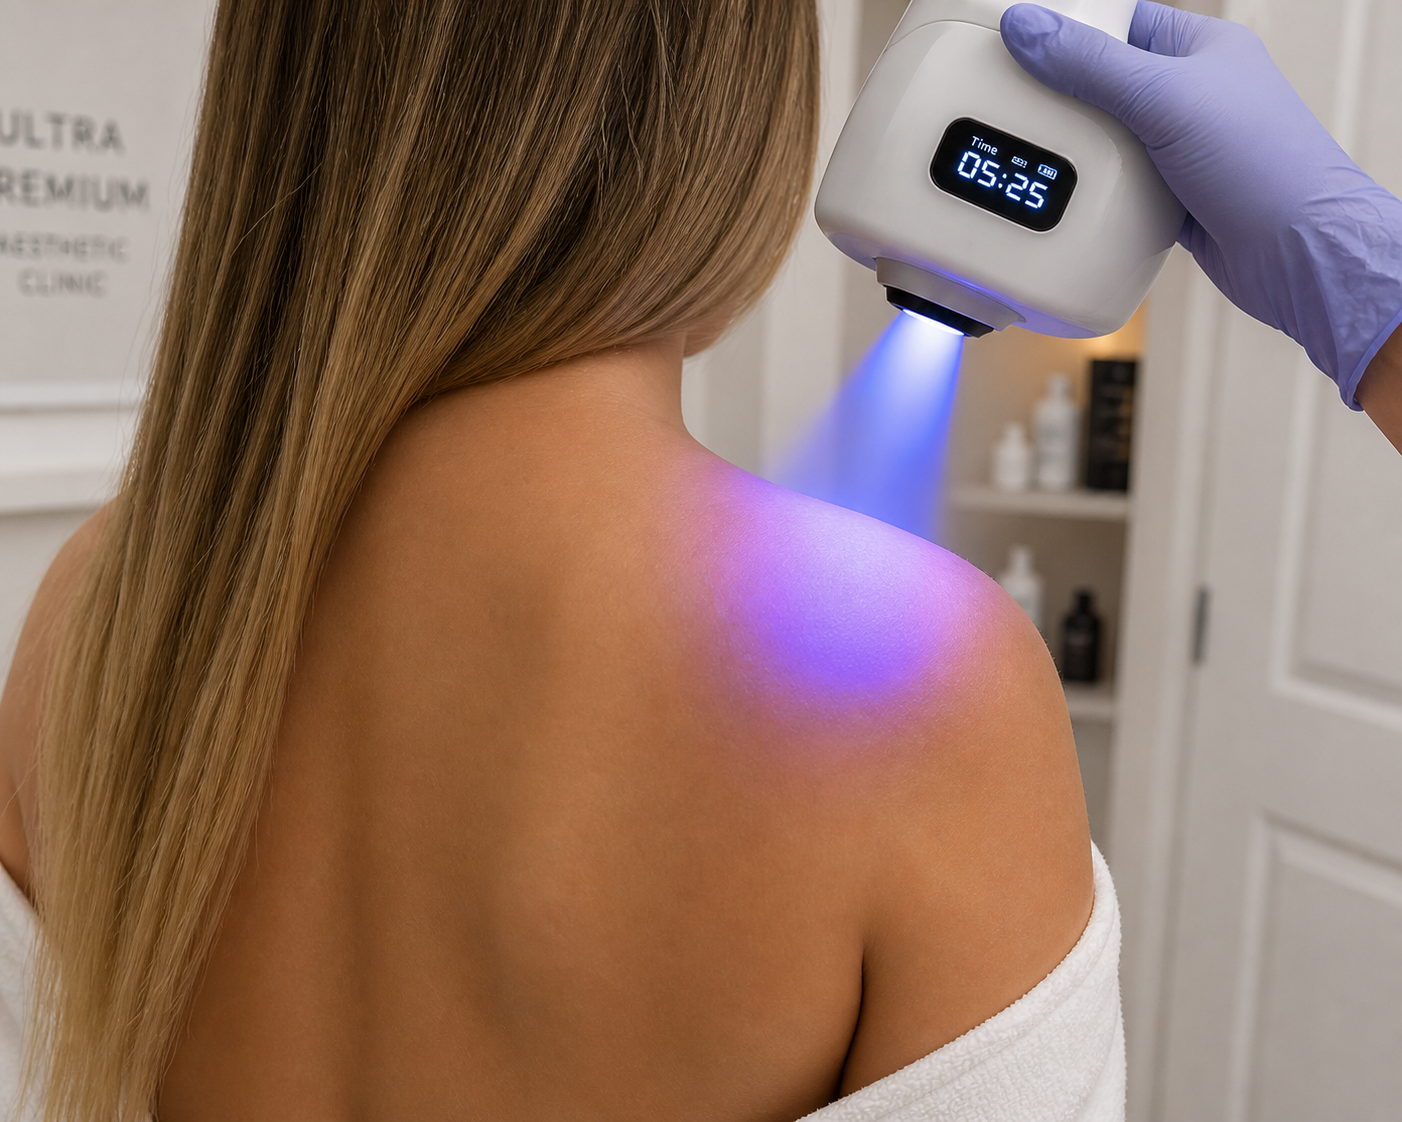
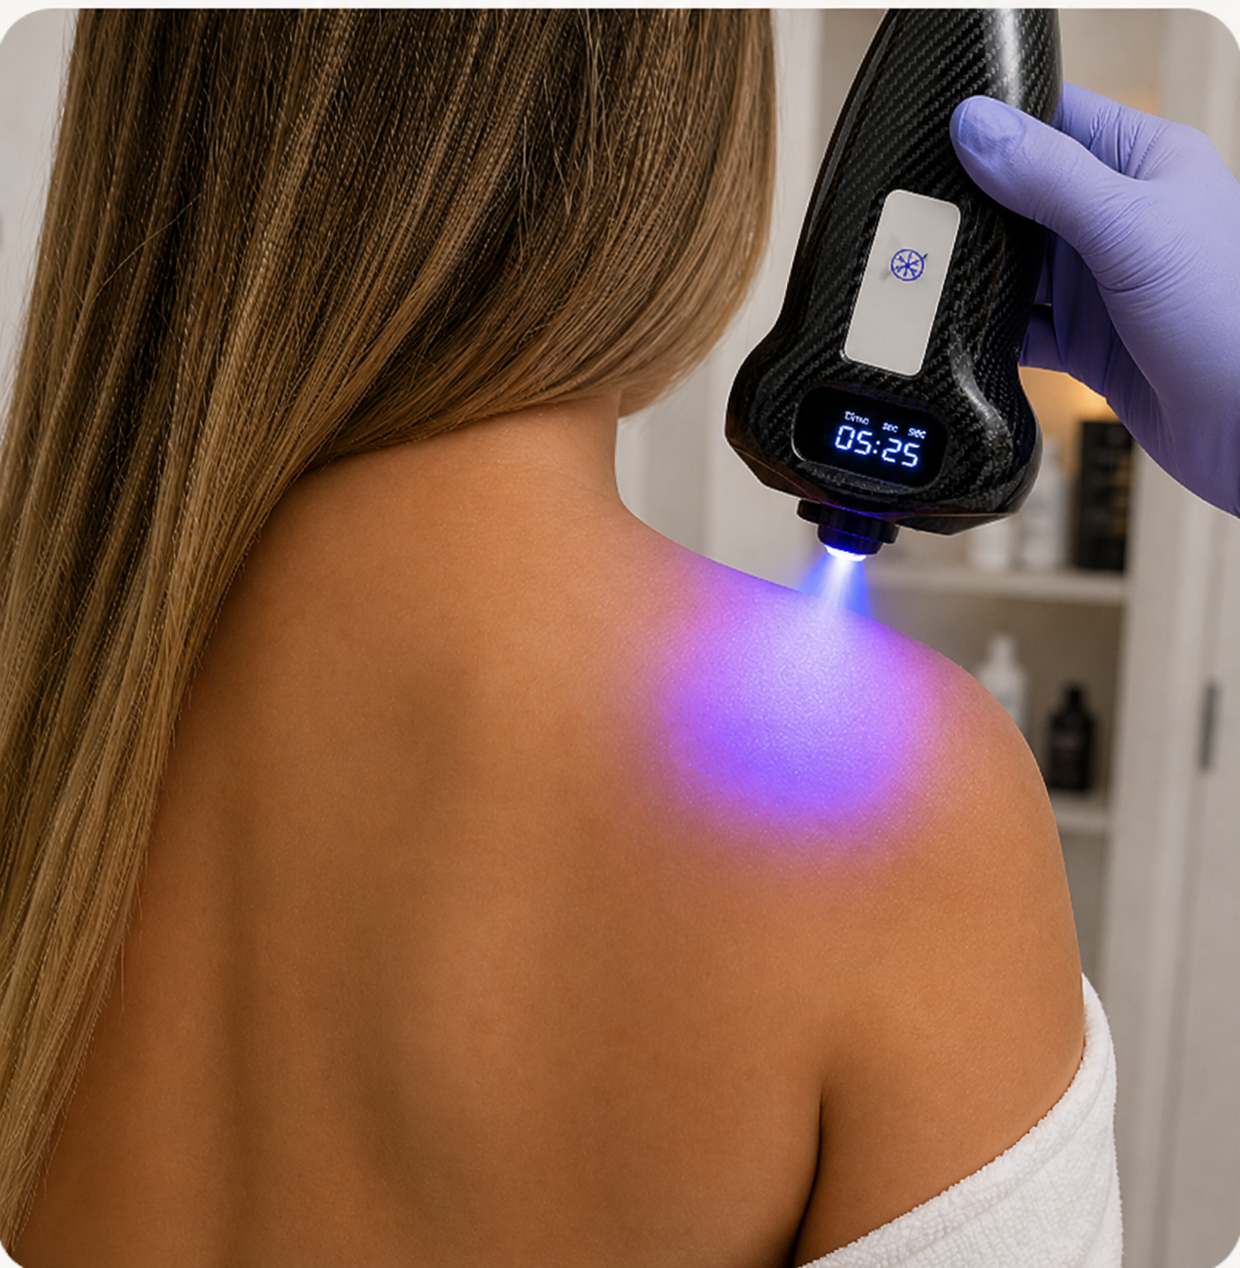
image ortho

diff --git a/src/App.tsx b/src/App.tsx
@@ -11,7 +11,6 @@ import CryotherapyDetail from "./pages/CryotherapyDetail.tsx";
 import CryoSubDetail from "./pages/CryoSubDetail.tsx";
 import AestheticSubDetail from "./pages/AestheticSubDetail.tsx";
 import About from "./pages/About.tsx";
-import Gallery from "./pages/Gallery.tsx";
 import Booking from "./pages/Booking.tsx";
 import Contact from "./pages/Contact.tsx";
 import FAQs from "./pages/FAQs.tsx";
@@ -39,7 +38,6 @@ const App = () => (
             <Route path="/services/skin-conditions" element={<AestheticSubDetail />} />
             <Route path="/services/:slug" element={<ServiceDetail />} />
             <Route path="/about" element={<About />} />
-            <Route path="/gallery" element={<Gallery />} />
             <Route path="/booking" element={<Booking />} />
             <Route path="/contact" element={<Contact />} />
             <Route path="/faqs" element={<FAQs />} />